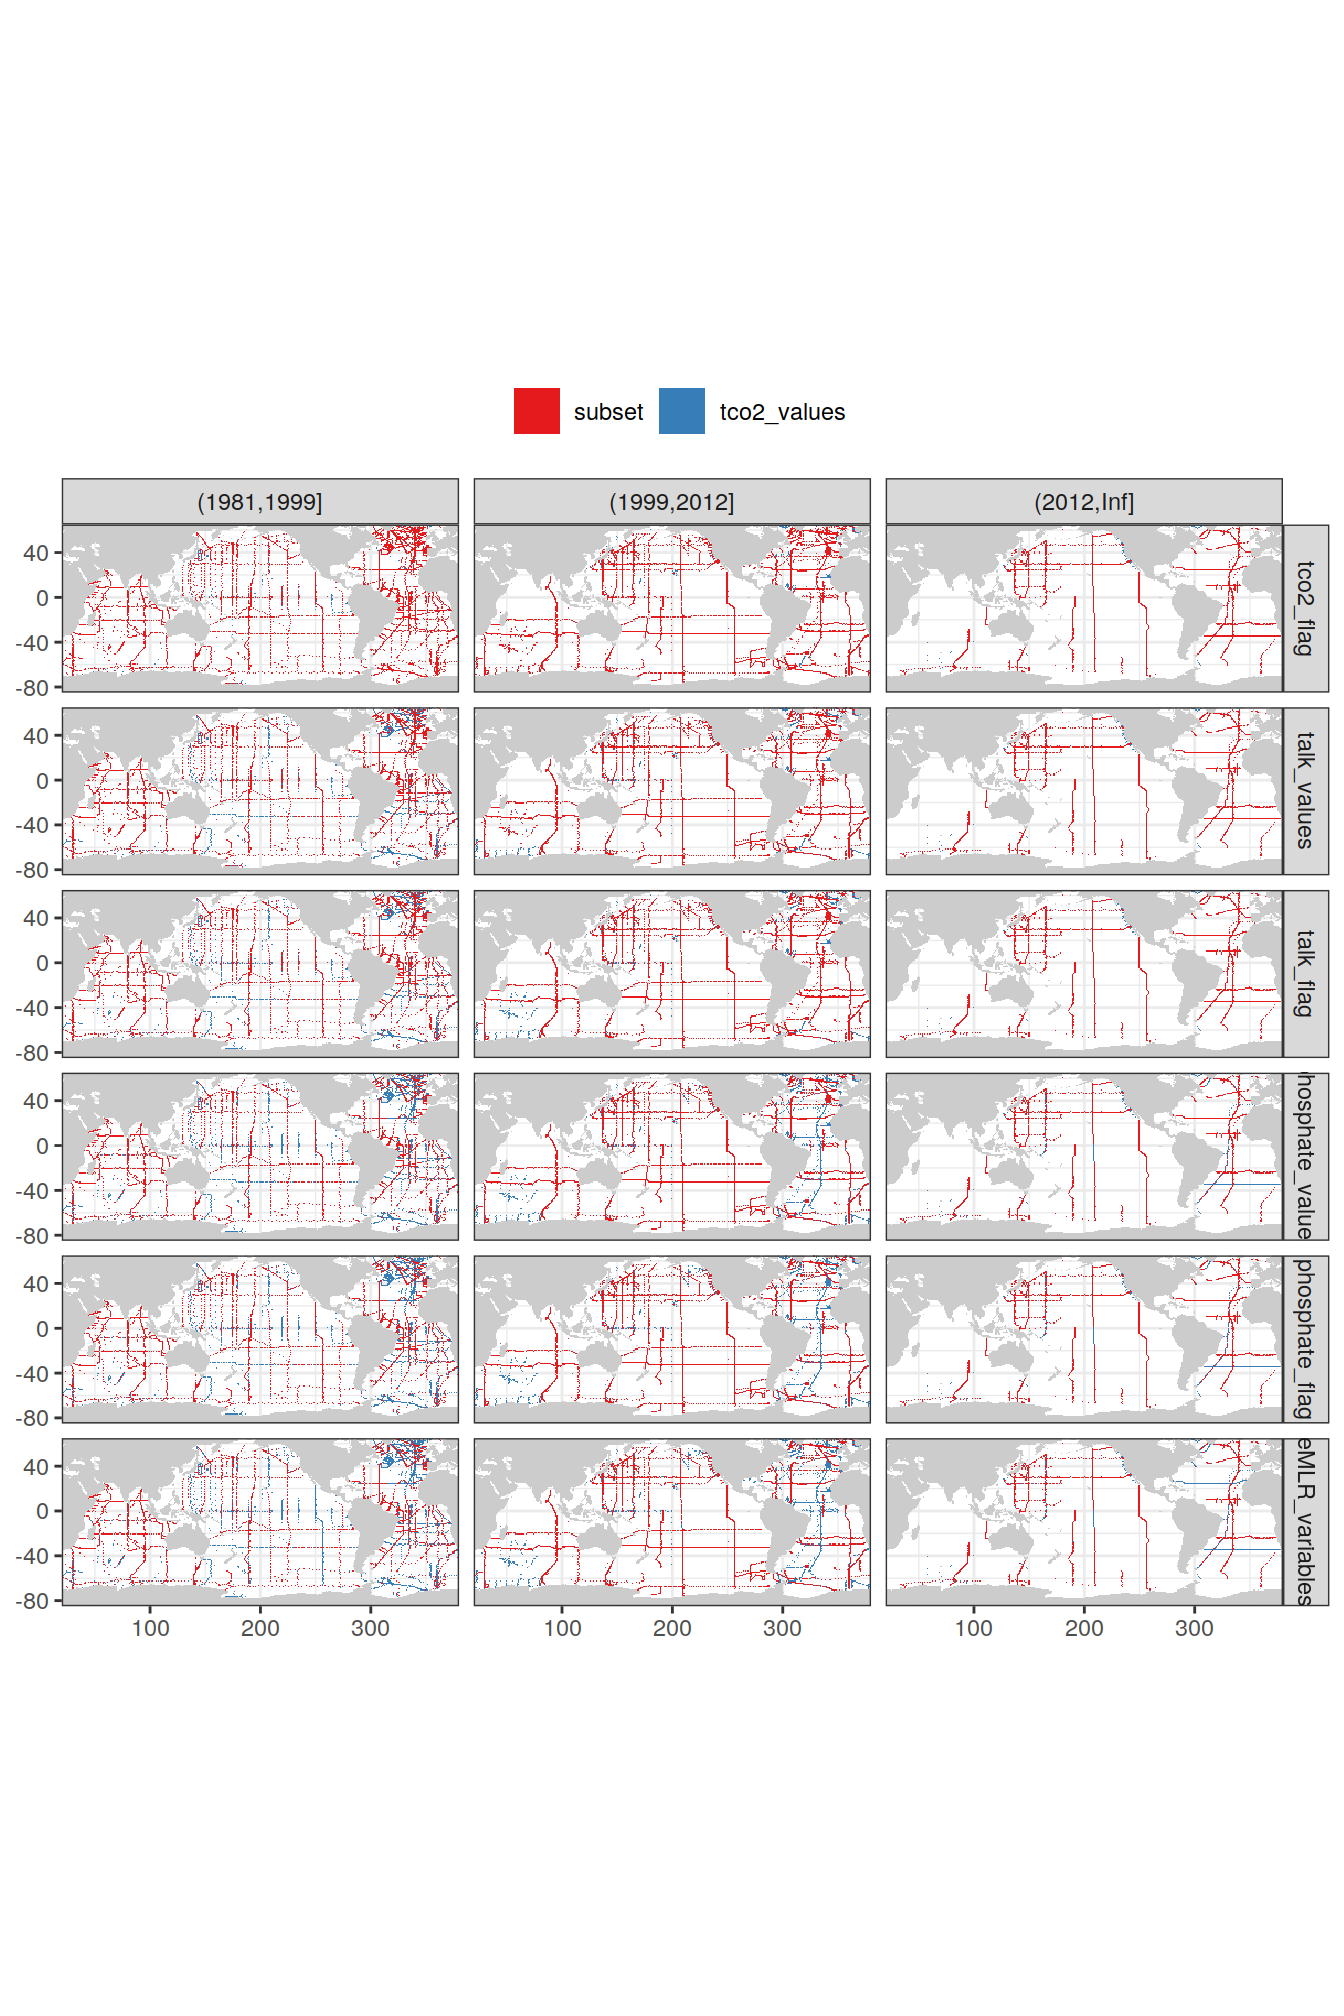
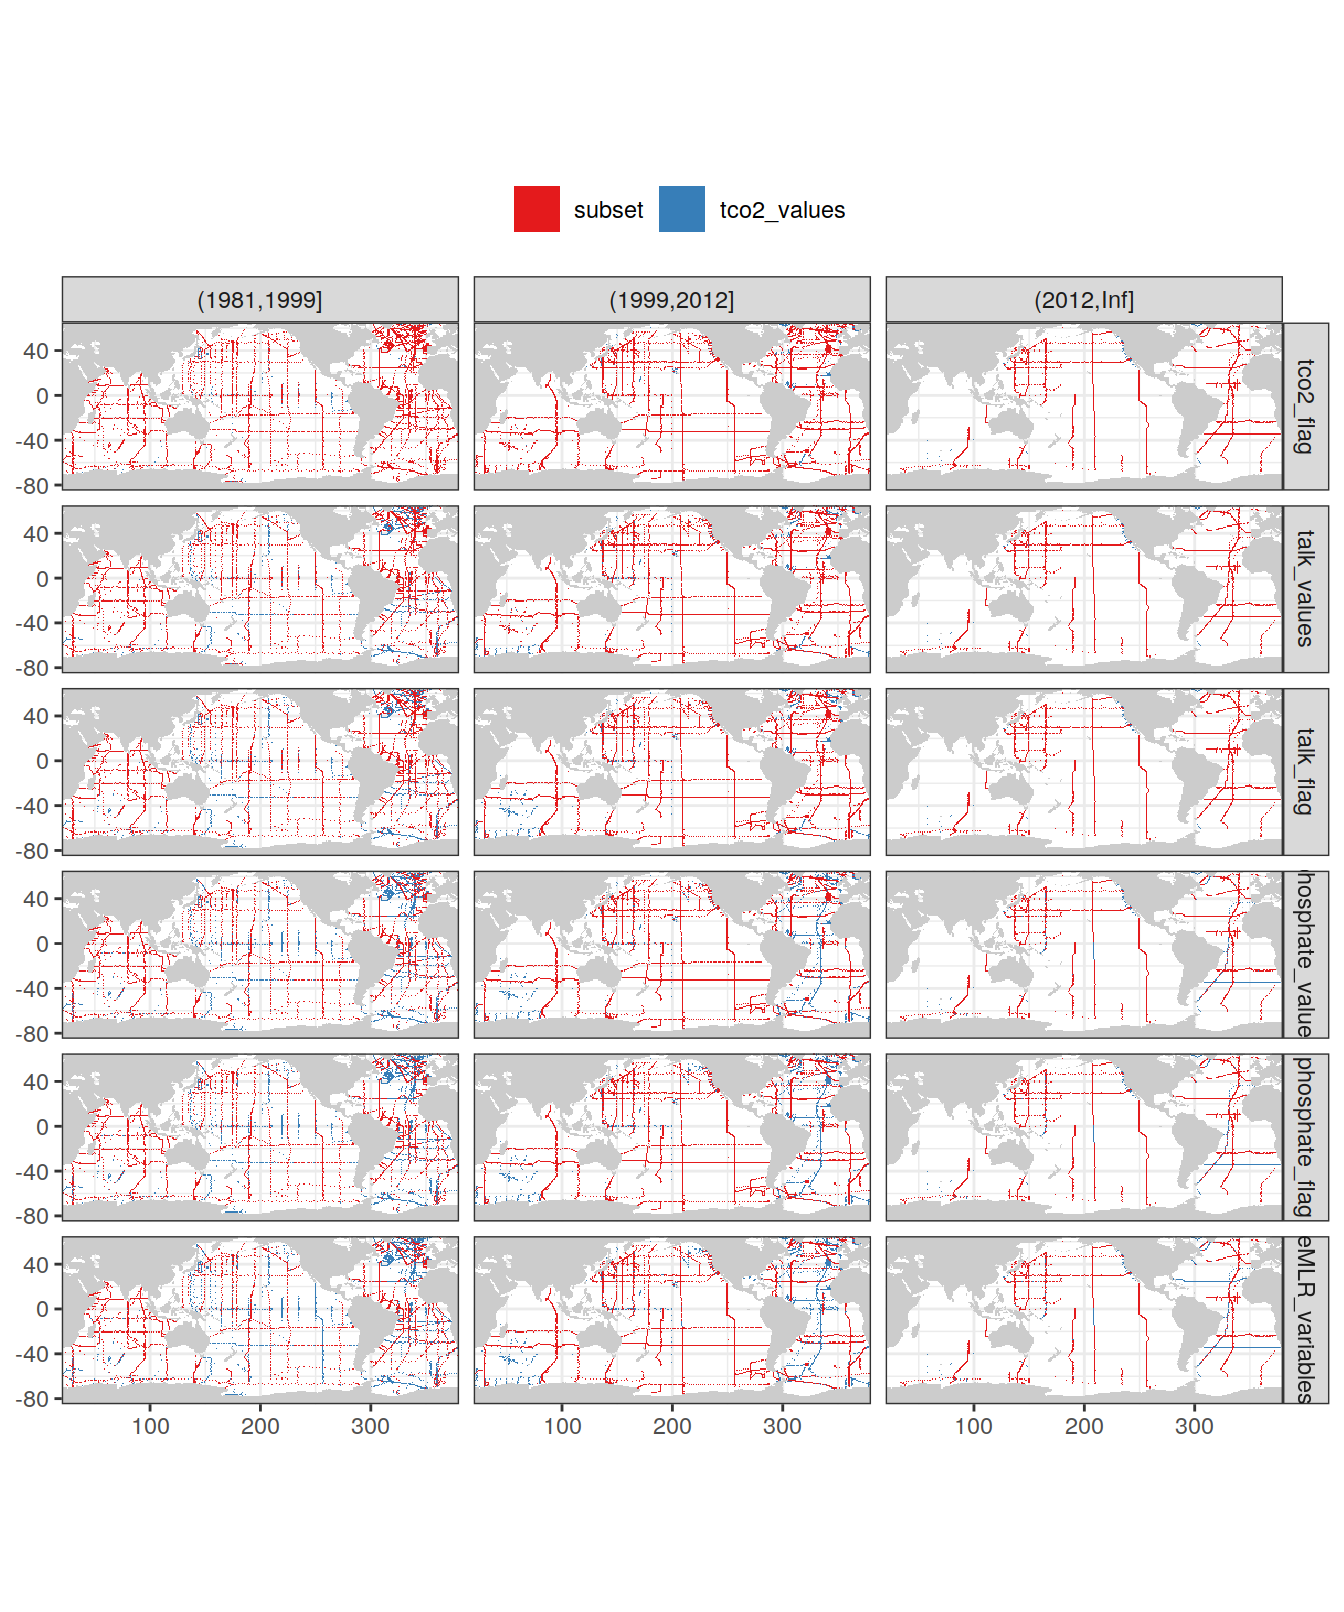
Build site.

diff --git a/docs/eMLR_GLODAPv2_2020_subsetting.html b/docs/eMLR_GLODAPv2_2020_subsetting.html
@@ -602,16 +602,16 @@ This reproducible <a href="http://rmarkdown.rstudio.com">R Markdown</a> analysis
 <div class="panel panel-default">
 <div class="panel-heading">
 <p class="panel-title">
-<a data-toggle="collapse" data-parent="#workflowr-checks" href="#strongRepositoryversionstrongahrefhttpsgithubcomjensdanielmuelleremlrobsvXXXtreef4520b2112129b7173f050f6b6e44cbfcc509214targetblankf4520b2a"> <span class="glyphicon glyphicon-ok text-success" aria-hidden="true"></span> <strong>Repository version:</strong> <a href="https://github.com/jens-daniel-mueller/emlr_obs_v_XXX/tree/f4520b2112129b7173f050f6b6e44cbfcc509214" target="_blank">f4520b2</a> </a>
+<a data-toggle="collapse" data-parent="#workflowr-checks" href="#strongRepositoryversionstrongahrefhttpsgithubcomjensdanielmuelleremlrobsvXXXtree3cc6d3cf6e8193e4be3aadb833b812c46e8a5095targetblank3cc6d3ca"> <span class="glyphicon glyphicon-ok text-success" aria-hidden="true"></span> <strong>Repository version:</strong> <a href="https://github.com/jens-daniel-mueller/emlr_obs_v_XXX/tree/3cc6d3cf6e8193e4be3aadb833b812c46e8a5095" target="_blank">3cc6d3c</a> </a>
 </p>
 </div>
[2 lines of base64/hex data omitted]
 <div class="panel-body">
 <p>
 Great! You are using Git for version control. Tracking code development and connecting the code version to the results is critical for reproducibility.
 </p>
 <p>
-The results in this page were generated with repository version <a href="https://github.com/jens-daniel-mueller/emlr_obs_v_XXX/tree/f4520b2112129b7173f050f6b6e44cbfcc509214" target="_blank">f4520b2</a>. See the <em>Past versions</em> tab to see a history of the changes made to the R Markdown and HTML files.
+The results in this page were generated with repository version <a href="https://github.com/jens-daniel-mueller/emlr_obs_v_XXX/tree/3cc6d3cf6e8193e4be3aadb833b812c46e8a5095" target="_blank">3cc6d3c</a>. See the <em>Past versions</em> tab to see a history of the changes made to the R Markdown and HTML files.
 </p>
 <p>
 Note that you need to be careful to ensure that all relevant files for the analysis have been committed to Git prior to generating the results (you can use <code>wflow_publish</code> or <code>wflow_git_commit</code>). workflowr only checks the R Markdown file, but you know if there are other scripts or data files that it depends on. Below is the status of the Git repository when the results were generated:
@@ -663,6 +663,40 @@ Message
 </tr>
 </thead>
 <tbody>
+<tr>
+<td>
+Rmd
+</td>
+<td>
+<a href="https://github.com/jens-daniel-mueller/emlr_obs_v_XXX/blob/3cc6d3cf6e8193e4be3aadb833b812c46e8a5095/analysis/eMLR_GLODAPv2_2020_subsetting.Rmd" target="_blank">3cc6d3c</a>
+</td>
+<td>
+jens-daniel-mueller
+</td>
+<td>
+2020-12-02
+</td>
+<td>
+code cleaning and commenting
+</td>
+</tr>
+<tr>
+<td>
+html
+</td>
+<td>
+<a href="https://rawcdn.githack.com/jens-daniel-mueller/emlr_obs_v_XXX/083b3b01f3f29fac4ee4903ab5a86e3d2d3f30dd/docs/eMLR_GLODAPv2_2020_subsetting.html" target="_blank">083b3b0</a>
+</td>
+<td>
+jens-daniel-mueller
+</td>
+<td>
+2020-12-02
+</td>
+<td>
+Build site.
+</td>
+</tr>
 <tr>
 <td>
 Rmd
@@ -2242,7 +2276,7 @@ jens-daniel-mueller
   count(lat, lon)
 
 map +
-  geom_raster(data = GLODAP_tco2_grid, aes(lon, lat), fill = &quot;grey80&quot;) +
+  # geom_raster(data = GLODAP_tco2_grid, aes(lon, lat), fill = &quot;grey80&quot;) +
   geom_bin2d(data = GLODAP,
              aes(lon, lat),
              binwidth = c(1,1)) +
@@ -2274,6 +2308,17 @@ Date
 </tr>
 </thead>
 <tbody>
+<tr>
+<td>
+<a href="https://github.com/jens-daniel-mueller/emlr_obs_v_XXX/blob/083b3b01f3f29fac4ee4903ab5a86e3d2d3f30dd/docs/figure/eMLR_GLODAPv2_2020_subsetting.Rmd/coverage_maps_era_clean-1.png" target="_blank">083b3b0</a>
+</td>
+<td>
+jens-daniel-mueller
+</td>
+<td>
+2020-12-02
+</td>
+</tr>
 <tr>
 <td>
 <a href="https://github.com/jens-daniel-mueller/emlr_obs_v_XXX/blob/0ff728bcd8b7b68083182314bccbc6234277b9c4/docs/figure/eMLR_GLODAPv2_2020_subsetting.Rmd/coverage_maps_era_clean-1.png" target="_blank">0ff728b</a>
